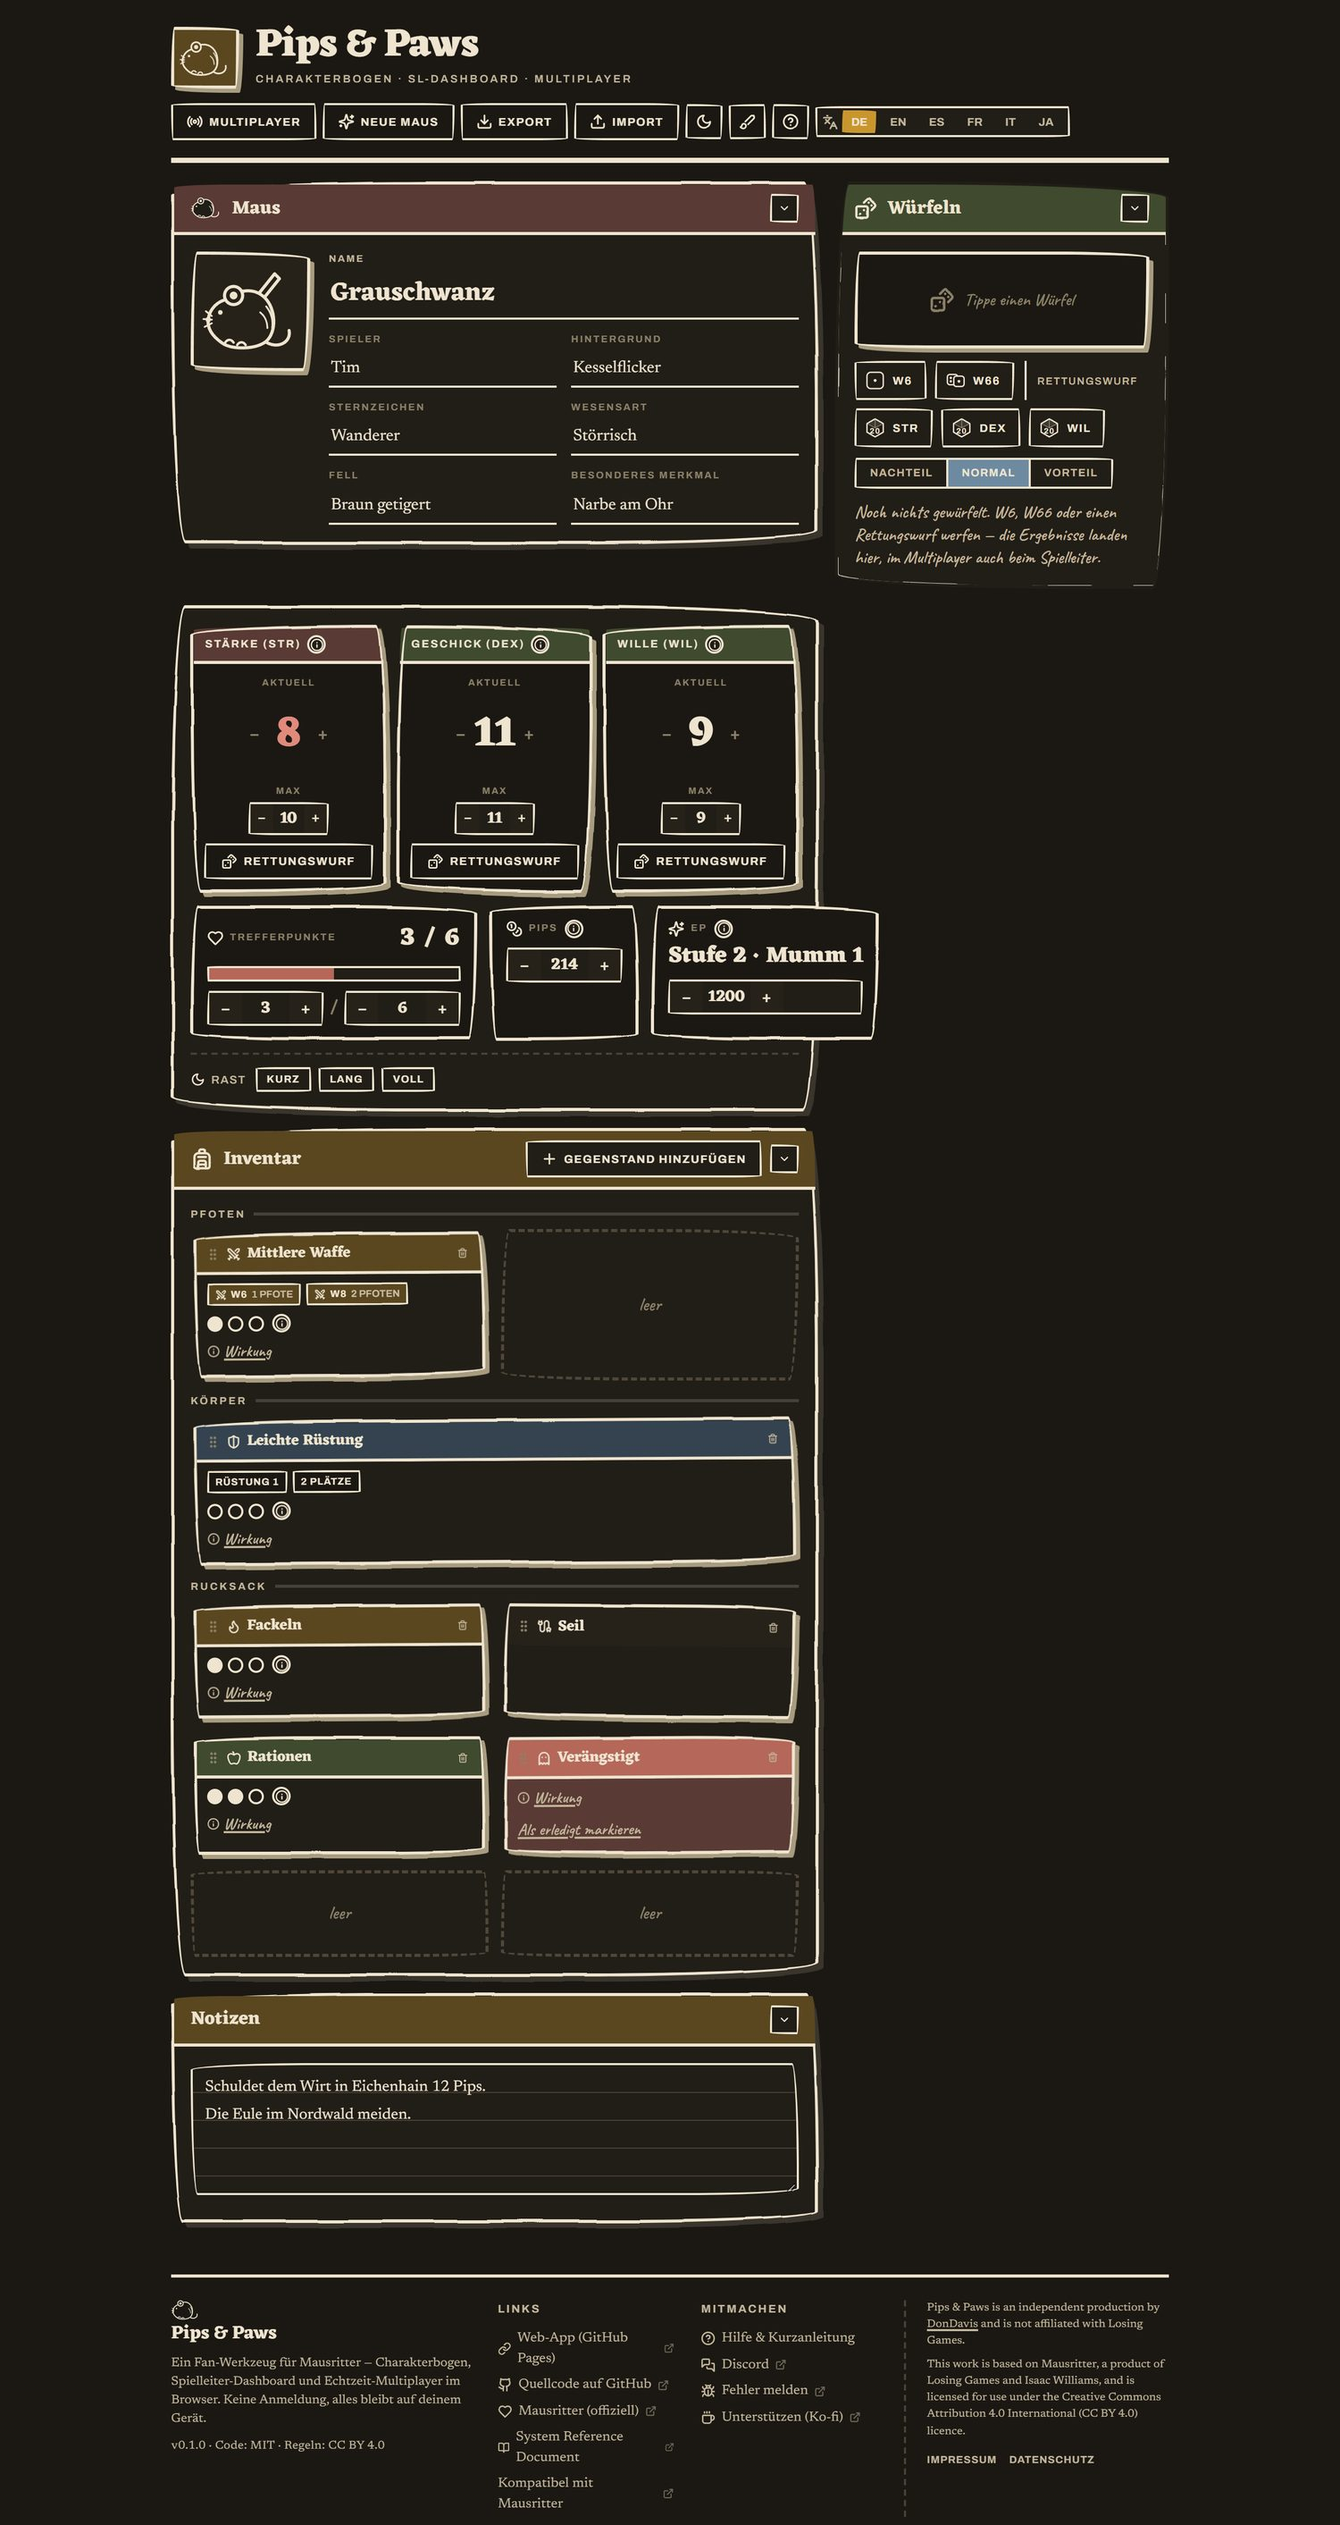
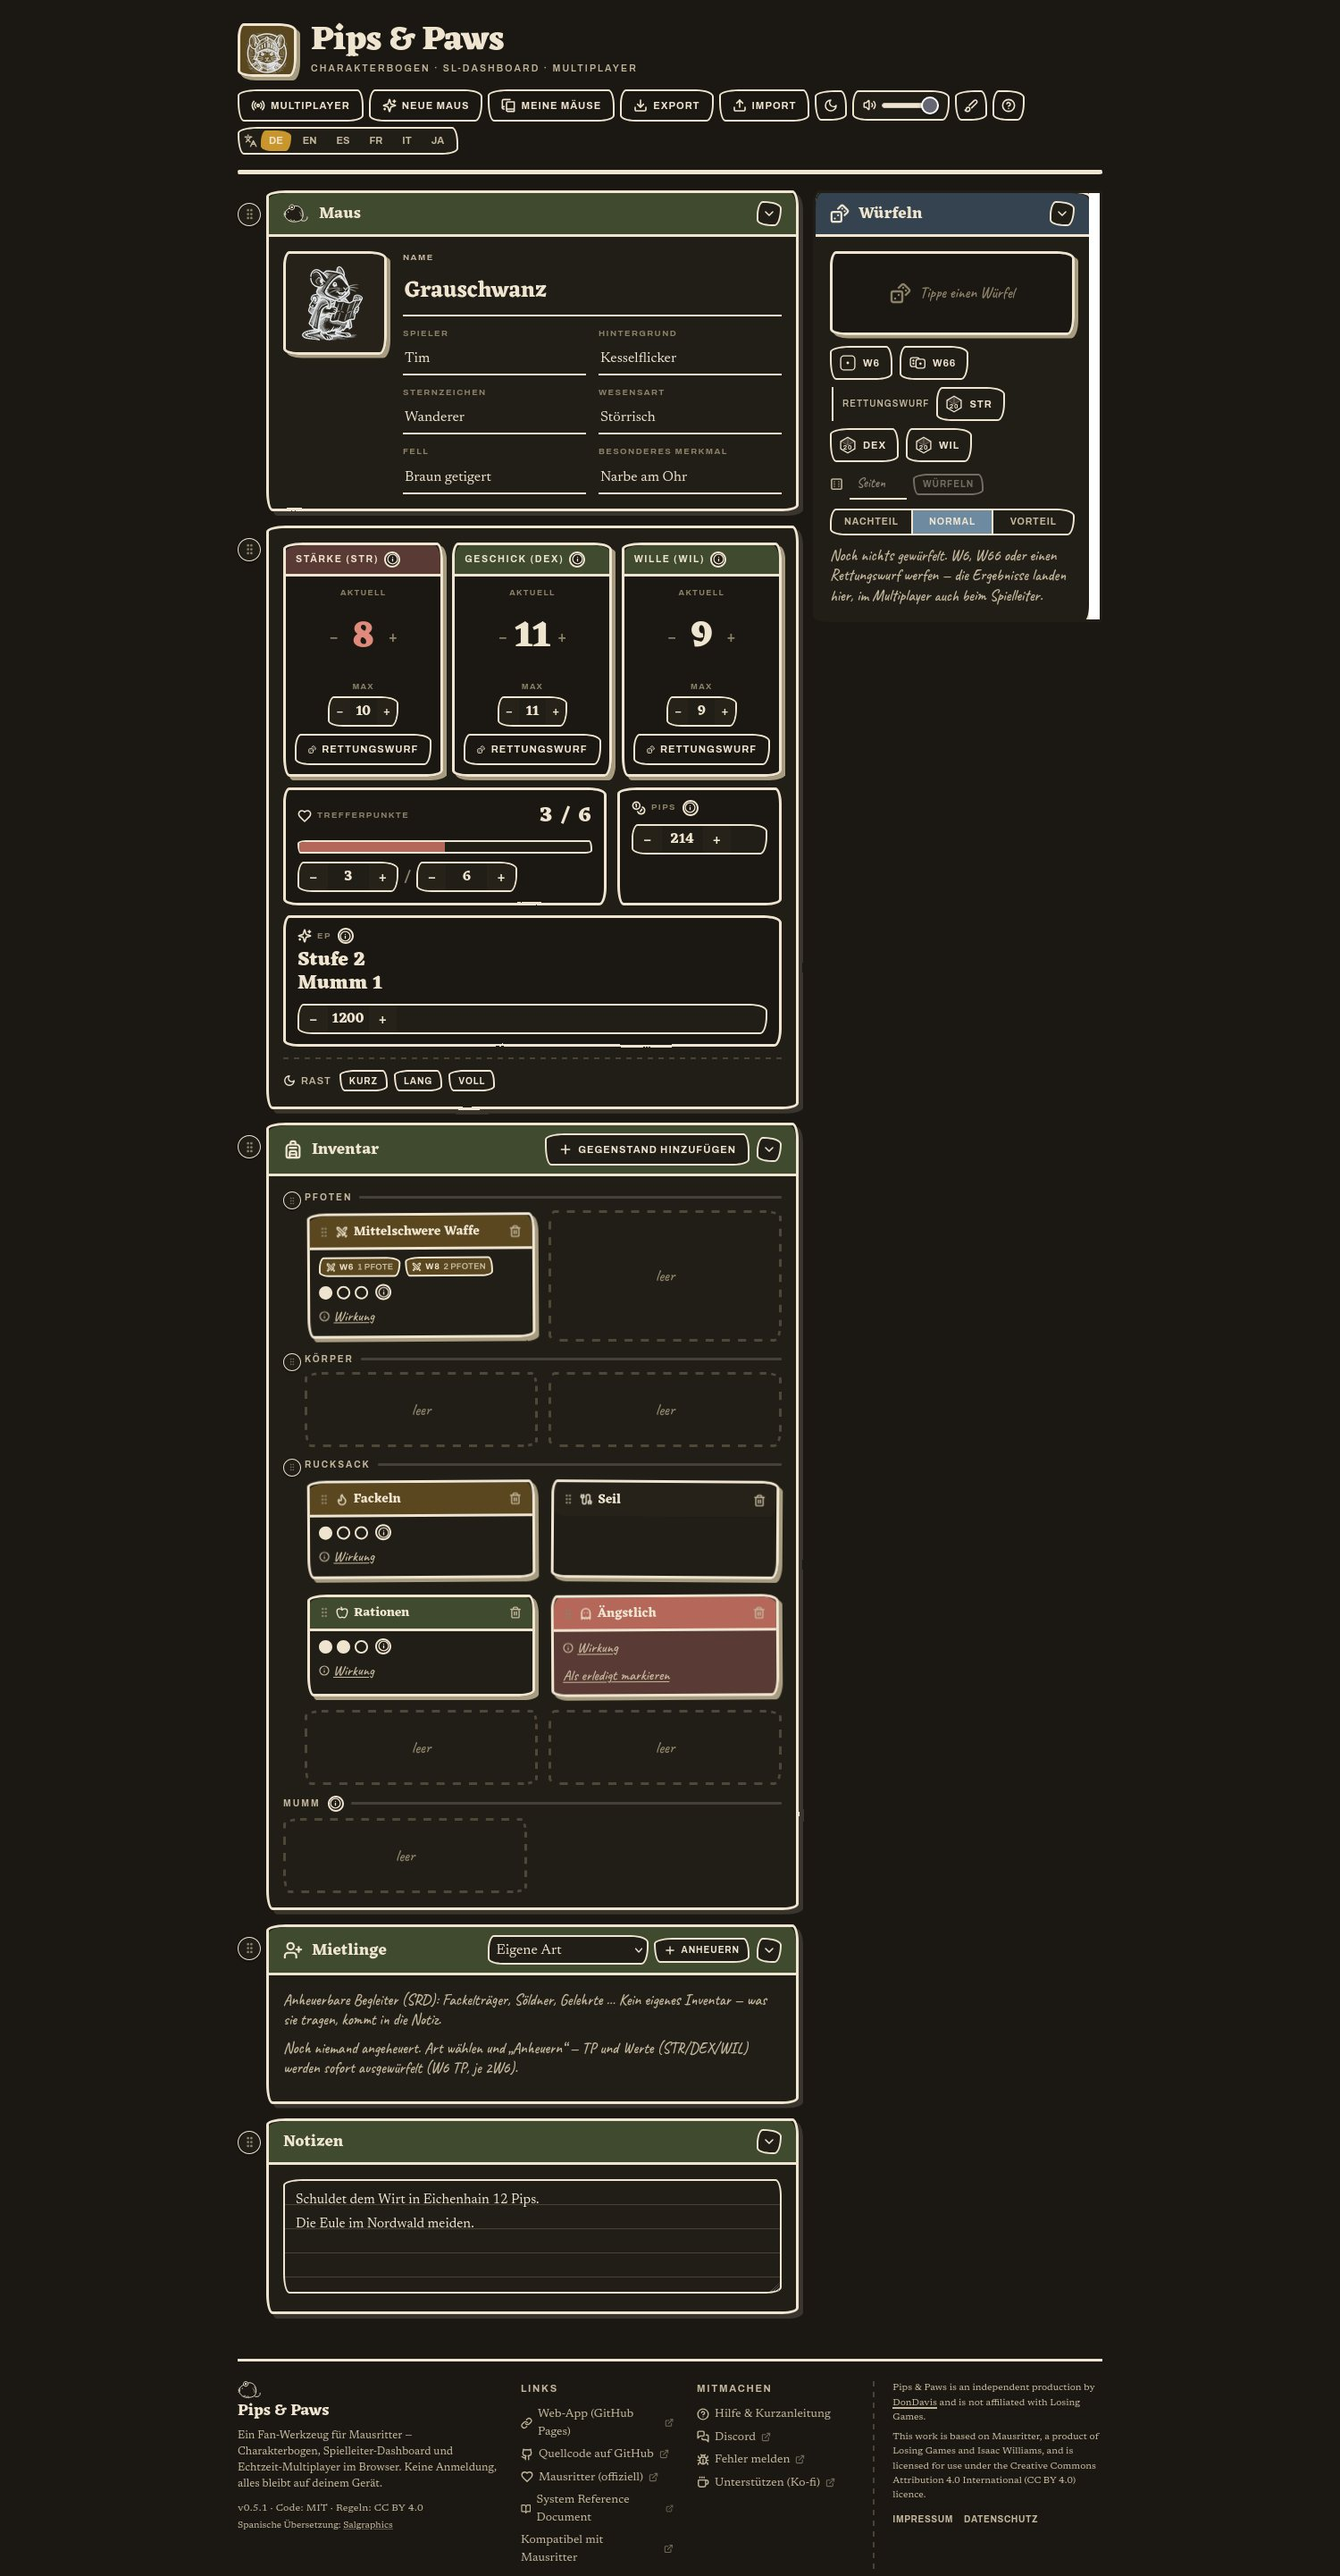
Screenshots neu aufgenommen (v0.5.1) und Battlemap-Bild ergaenzt
Charakterbogen hell/dunkel und SL-Dashboard zeigen die neue Tusche-Optik,
Generatoren, Fraktionen und Kreatur-Portraits; neues Bild der Battlemap mit
Hex-Raster. Beispielmaus und Kartenbild sind eigene Erfindungen.

Changed region(s): [[0.1227, 0.0, 0.8893, 0.9968], [0.6747, 0.9034, 0.8587, 0.9968]]

diff --git a/README.md b/README.md
@@ -142,6 +142,13 @@ screens · JSON export / import of the sheet · runs offline from a single file.
 
 </details>
 
+<details>
+<summary>Battlemap with hex grid</summary>
+
+<img src="docs/screenshots/gm-battlemap.jpg" alt="Battlemap with hex grid and creature tokens" width="50%" />
+
+</details>
+
 ## Develop
 
 ```bash

diff --git a/README.de.md b/README.de.md
@@ -150,6 +150,13 @@ einzigen Datei.
 
 </details>
 
+<details>
+<summary>Battlemap mit Sechseck-Raster</summary>
+
+<img src="docs/screenshots/gm-battlemap.jpg" alt="Battlemap mit Sechseck-Raster und Kreatur-Token" width="50%" />
+
+</details>
+
 ## Entwickeln
 
 ```bash
